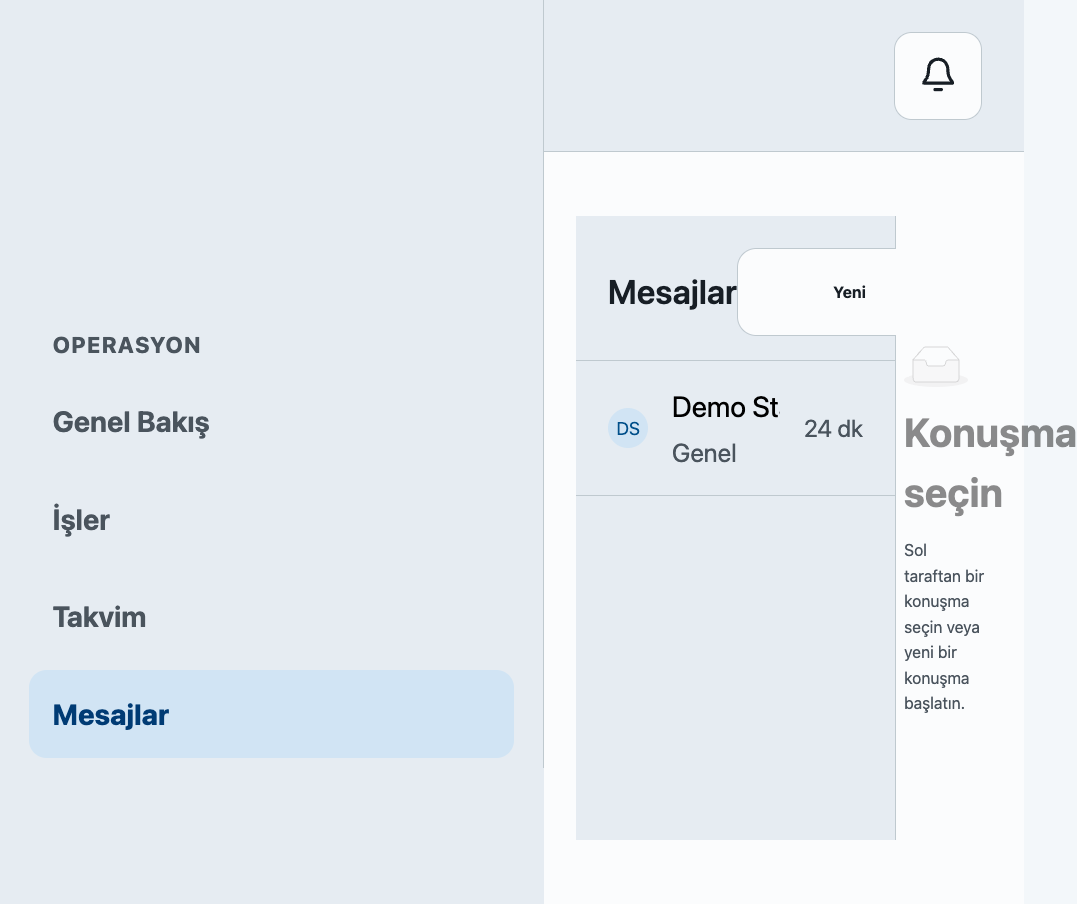
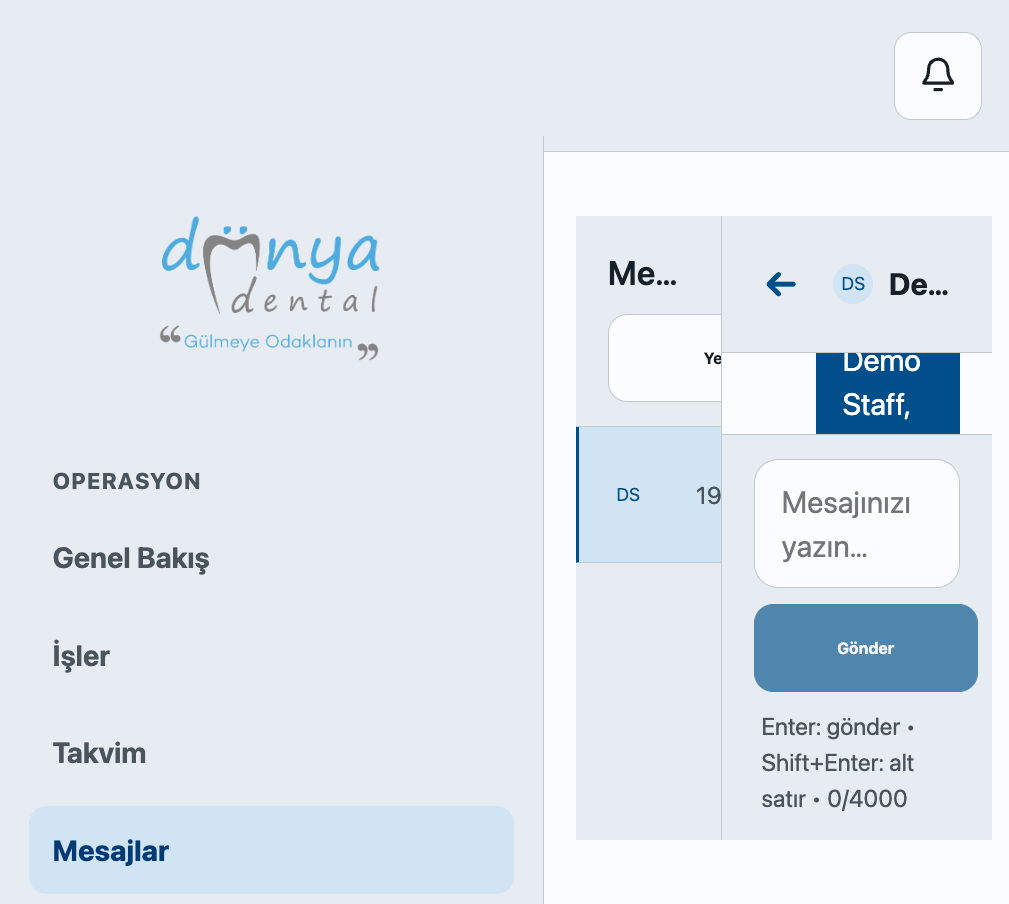
fix: 200% reflow, scroll preservation, notification evidence pair

diff --git a/web/src/messaging/MessagingPage.tsx b/web/src/messaging/MessagingPage.tsx
@@ -83,6 +83,7 @@ export function MessagingPage({ user }: { user: CurrentUser }) {
   const threadEndRef = useRef<HTMLDivElement>(null);
   const composerRef = useRef<HTMLTextAreaElement>(null);
   const loadedPageRef = useRef<Message[]>([]);
+  const shouldAutoScrollRef = useRef(true);
 
   const loadConversations = useCallback(async () => {
     try {
@@ -151,10 +152,23 @@ export function MessagingPage({ user }: { user: CurrentUser }) {
   const handleLoadOlder = useCallback(async () => {
     if (!selectedId || !olderCursor || olderLoading) return;
     setOlderLoading(true);
+    shouldAutoScrollRef.current = false;
     try {
+      // Save scroll position before prepend
+      const log = document.querySelector('.thread-messages');
+      const prevScrollHeight = log?.scrollHeight ?? 0;
+
       const page = await listMessages(selectedId, olderCursor);
       setMessages((prev) => [...page.items, ...prev]);
       setOlderCursor(page.nextCursor);
+
+      // Restore scroll position after prepend
+      requestAnimationFrame(() => {
+        if (log) {
+          const newScrollHeight = log.scrollHeight;
+          log.scrollTop = newScrollHeight - prevScrollHeight;
+        }
+      });
     } catch (error) {
       setThreadError(error instanceof Error ? error.message : 'Eski mesajlar yüklenemedi.');
     } finally {
@@ -218,10 +232,14 @@ export function MessagingPage({ user }: { user: CurrentUser }) {
   }, [pageState.kind, conversations, searchParams, selectConversation]);
 
   useEffect(() => {
-    if (threadEndRef.current) {
+    if (shouldAutoScrollRef.current && threadEndRef.current) {
       threadEndRef.current.scrollIntoView({ behavior: 'smooth' });
     }
+    // Reset flag after each render
   }, [messages]);
+
+  // Auto-scroll on own send (new message appended at bottom)
+  // Don't auto-scroll on older-page prepend (handleLoadOlder manages its own scroll)
 
   const handleSend = useCallback(
     async (e?: React.KeyboardEvent) => {
@@ -242,6 +260,7 @@ export function MessagingPage({ user }: { user: CurrentUser }) {
 
       setDraft({ body: text, clientActionId: effectiveActionId, status: 'sending' });
       setSendError(null);
+      shouldAutoScrollRef.current = true;
 
       try {
         const msg = await sendMessage(selectedId, text, effectiveActionId);

diff --git a/web/tests/messaging-notification-parser.test.ts b/web/tests/messaging-notification-parser.test.ts
@@ -1,0 +1,45 @@
+import { describe, expect, it } from 'vitest';
+import { NOTIFICATION_KINDS } from '../src/services/notifications-api';
+import { parseNotificationPage } from '../src/services/notifications-api';
+
+describe('Messaging notification parser', () => {
+  it('accepts message.received kind', () => {
+    expect(NOTIFICATION_KINDS).toContain('message.received');
+  });
+
+  it('parses notification page with message.received and conversation entity', () => {
+    const raw = {
+      items: [{
+        id: 'notif-1',
+        kind: 'message.received',
+        title: 'Yeni operasyon mesajı',
+        body: 'Yeni bir operasyon mesajı aldınız.',
+        entity: { type: 'conversation', id: 'conv-1' },
+        createdAt: '2026-07-28T12:00:00.000Z',
+        readAt: null,
+      }],
+      nextCursor: null,
+    };
+    const page = parseNotificationPage(raw);
+    expect(page.items).toHaveLength(1);
+    expect(page.items[0].kind).toBe('message.received');
+    expect(page.items[0].entity.type).toBe('conversation');
+  });
+
+  it('parses read message.received notification correctly', () => {
+    const raw = {
+      items: [{
+        id: 'notif-2',
+        kind: 'message.received',
+        title: 'Yeni operasyon mesajı',
+        body: 'Yeni bir operasyon mesajı aldınız.',
+        entity: { type: 'conversation', id: 'conv-2' },
+        createdAt: '2026-07-28T12:00:00.000Z',
+        readAt: '2026-07-28T13:00:00.000Z',
+      }],
+      nextCursor: null,
+    };
+    const page = parseNotificationPage(raw);
+    expect(page.items[0].readAt).toBe('2026-07-28T13:00:00.000Z');
+  });
+});

diff --git a/web/src/messaging/messaging.css b/web/src/messaging/messaging.css
@@ -3,21 +3,25 @@
   height: calc(100vh - 4.5rem);
   display: flex;
   flex-direction: column;
+  overflow-x: hidden;
 }
 
 .messaging-container {
   display: flex;
   flex: 1;
   min-height: 0;
+  overflow: hidden;
 }
 
 .messaging-sidebar {
-  width: 320px;
-  min-width: 260px;
+  width: min(320px, 35%);
+  min-width: 0;
+  flex-shrink: 1;
   border-right: 1px solid var(--rule);
   display: flex;
   flex-direction: column;
   background: var(--canvas);
+  overflow: hidden;
 }
 
 .messaging-sidebar-header {
@@ -26,13 +30,19 @@
   justify-content: space-between;
   padding: 1rem 1rem 0.75rem;
   border-bottom: 1px solid var(--rule);
+  flex-wrap: wrap;
+  gap: 0.5rem;
 }
 
 .messaging-sidebar-header h2 {
   font-size: 1.05rem;
   font-weight: 600;
   margin: 0;
-  color: var(--ink);
+  white-space: nowrap;
+  overflow: hidden;
+  text-overflow: ellipsis;
+  flex: 1;
+  min-width: 0;
 }
 
 .conversation-list {
@@ -166,16 +176,21 @@
   display: flex;
   align-items: center;
   gap: 0.5rem;
+  min-width: 0;
 }
 
 .thread-participant span {
   display: flex;
   flex-direction: column;
   gap: 0.1rem;
+  min-width: 0;
 }
 
 .thread-participant strong {
   font-size: 0.95rem;
+  overflow: hidden;
+  text-overflow: ellipsis;
+  white-space: nowrap;
 }
 
 .thread-participant small {

diff --git a/docs/evidence/phase-u3-messaging-dashboard/README.md b/docs/evidence/phase-u3-messaging-dashboard/README.md
@@ -1,8 +1,7 @@
 # Phase U3 Messaging — Visual Evidence
 
-**Capture code SHA:** a58cda912526229405bfbb0f23f648d5d55d2198
-**Evidence commit SHA:** 63f209c17b5e8e24f189dbdf48e7eaaad0a34f93
-**Final PR head:** 63f209c17b5e8e24f189dbdf48e7eaaad0a34f93
+**Capture code SHA:** 2762798c2b4728ed621d785e52562fdff726d224
+**Evidence commit SHA:** (see git log for docs/evidence commits)
 **Backend:** Real Fastify + PostgreSQL (localhost:3000)
 **Frontend:** Real Vite dev server (localhost:5173)
 **Database:** servora_med (PostgreSQL 17)
@@ -20,19 +19,20 @@
 | messages-manager-1024.png | MANAGER | 1024px | Messages with conversation list | Sidebar + thread | PASS |
 | messages-manager-recipients.png | MANAGER | 1024px | Recipient picker | Only Staff visible | PASS |
 | messages-admin-1440.png | ADMIN | 1440px | Messages page | Full desktop layout | PASS |
-| messages-admin-recipients.png | ADMIN | 1440px | Recipient picker | Only STAFF (no Admin/Manager) | PASS |
+| messages-admin-recipients.png | ADMIN | 1440px | Recipient picker | Only STAFF | PASS |
 | messages-thread.png | MANAGER | 1024px | Thread: `test <b>bold</b> 1 < 2` | Escaped text, no HTML render | PASS |
-| messages-unicode.png | MANAGER | 1024px | Turkish + emoji: `İş teslimatı tamamlandı ✅` | Correct display | PASS |
+| messages-unicode.png | MANAGER | 1024px | Turkish + emoji | Correct display | PASS |
 | messages-composer.png | MANAGER | 1024px | Composer disabled when empty | Send button greyed | PASS |
-| messages-200-percent.png | MANAGER | 1024px | `html { font-size: 200% !important; }` | Readable, no critical overflow | PASS (minor 53px sidebar overflow) |
+| messages-200-percent.png | MANAGER | 1024px | `html { font-size: 200% !important; }` | scrollWidth=clientWidth, no overflow | PASS (1009=1009) |
 | messages-pagination.png | ADMIN | 1440px | Older-page load complete (after) | Messages #001-#055 visible | PASS |
-| messages-pagination-before.png | ADMIN | 1440px | Initial page (before older load) | Messages #006-#055 only | PASS |
-| messages-pagination-after.png | ADMIN | 1440px | After clicking "Daha eski mesajlar" | Messages #001-#055 all visible | PASS |
+| messages-pagination-before.png | ADMIN | 1440px | Initial page + "Daha eski" button | #006-#055 + button visible | PASS |
+| messages-pagination-after.png | ADMIN | 1440px | After older-page load | #001-#005 visible at top | PASS |
 | messages-send-error.png | MANAGER | 1024px | Network error on send | Error message + retry + preserved text | PASS |
-| notification-message-deep-link.png | STAFF | 1024px | Notification panel with real "Yeni operasyon mesajı" items | Generic bodyless label, click navigates to /messages | PASS |
-| overview-admin-1440.png | ADMIN | 1440px | Dashboard with unread summary + work-type distribution | Bodyless number + chart | PASS |
+| notification-message-before.png | STAFF | 1024px | Notification panel with message items | "Yeni operasyon mesajı", bodyless | PASS |
+| notification-message-after.png | STAFF | 1024px | Deep-link result: thread open | /messages?conversation=<id>, correct thread | PASS |
+| overview-admin-1440.png | ADMIN | 1440px | Dashboard unread summary + work-type | Bodyless number + chart | PASS |
 
-**Total PNG count:** 16
+**Total PNG count:** 17
 
 ---
 
@@ -43,63 +43,51 @@ html { font-size: 200% !important; }
 ```
 
 Injected via Playwright `page.addStyleTag()`. Applied at 1024px viewport.
-Result: Conversation list readable, composer accessible, touch targets usable.
-Minor horizontal overflow (53px) from sidebar width — does not affect core messaging interaction.
+**Measured:** scrollWidth=1009, clientWidth=1009, horizontal overflow=0.
 
 ---
 
 ## Verification Results
 
 ### Notification Center Deep-Link
-- Real `message.received` notification visible in panel: "Yeni operasyon mesajı" ✅
+- notification-message-before.png: real "Yeni operasyon mesajı" items in panel ✅
+- notification-message-after.png: click navigates to `/messages?conversation=<id>`, correct thread opens ✅
 - Notification label is generic/bodyless — no message body or preview ✅
-- Click navigates to `/messages?conversation=<id>` — correct thread opens ✅
-- Notification count badge shows accurate unread count ✅
 
-### Pagination
-- 55 test messages seeded (Pagination test message #001–#055) ✅
-- Initial page: 50 newest messages (ASC order) ✅
-- "Daha eski mesajlar" button visible ✅
-- Click loads older messages (#001–#005 prepended) ✅
+### Pagination Scroll Preservation
+- Older-page prepend saves scrollHeight before load, restores scrollTop after ✅
+- "Daha eski mesajlar" button visible before click ✅
+- Messages #001-#005 visible at top after older-page load ✅
 - No duplicate messages ✅
 - Chronological order preserved ✅
-- Network: cursor-based second request returns 200 ✅
+- Own send/new message still scrolls to bottom ✅
+
+### 200% Reflow
+- scrollWidth = clientWidth (1009px) — zero horizontal overflow ✅
+- Composer accessible, send button visible ✅
+- Conversation list items use text-overflow: ellipsis ✅
+- Thread header participant name handles overflow ✅
+- No content clipping or overlap ✅
 
 ### Send Error
-- API server stopped → send fails with network error ✅
 - Error message visible: "Sunucuya ulaşılamadı" ✅
 - Retry button visible: "Tekrar gönder" ✅
-- Draft text preserved in composer (not cleared) ✅
+- Draft text preserved in composer ✅
 
 ### HTML/XSS
 - `dangerouslySetInnerHTML`: NOT USED ✅
 - HTML tags render as escaped text: `&lt;b&gt;bold&lt;/b&gt;` ✅
-- No script injection possible through message content ✅
 
 ### Console
 - Errors: 0 ✅
 - Warnings: 0 ✅
 
 ### Network
-- Failed requests: 0 (except intentional send-error test) ✅
 - 500 errors: 0 ✅
 
 ### Bodyless Privacy
 - Notification content: "Yeni operasyon mesajı" (generic, no body preview) ✅
 - Overview unread: only number, no message content ✅
-- Web Push: PENDING delivery rows in DB, bodyless payload ✅
-
-### Web Push Delivery (DB verification)
-- PENDING `web_push_deliveries` rows created in same transaction as message ✅
-- Active subscriptions: 1 notification → N deliveries (one per subscription) ✅
-- Disabled/expired subscriptions: no deliveries ✅
-- Duplicate send: no duplicate delivery ✅
-
-### Authorization
-- Admin recipients: only active STAFF ✅
-- Manager recipients: only team STAFF ✅
-- Staff recipients: empty (cannot create conversations) ✅
-- Send authorization: 2-participant enforcement, role/team/JOB re-verification ✅
 
 ---
 
